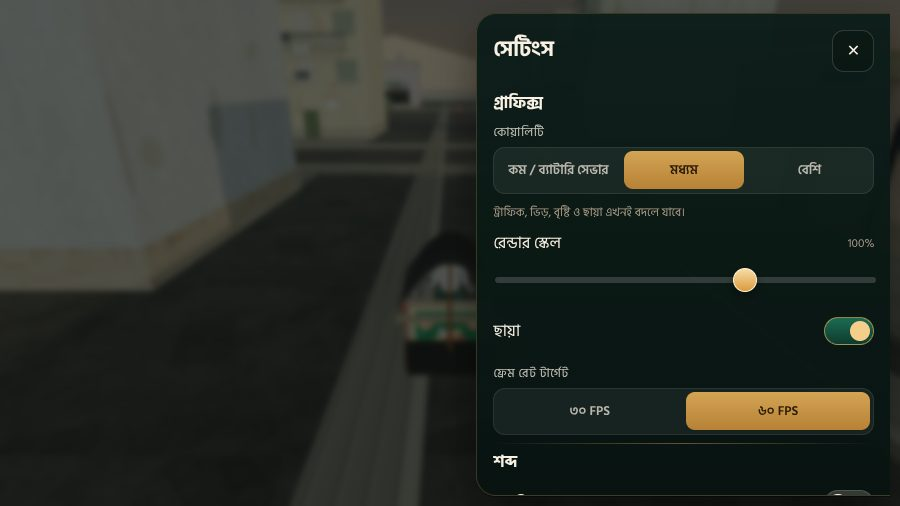
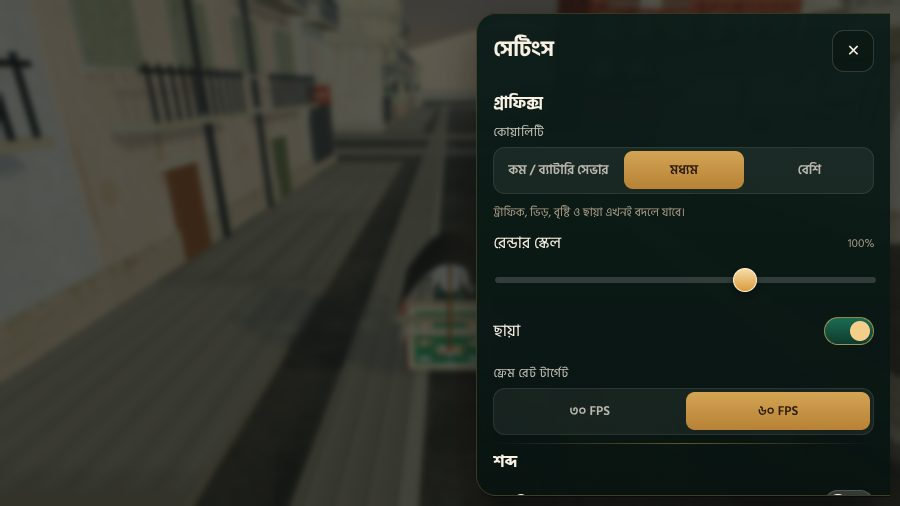
Perf + polish pass: fewer draw calls, better hero art, click-through tests
- Merge the hero rickshaw's static painted parts into one mesh per material
- Bake each traffic vehicle's wheels into a single mesh (no per-wheel draws)
- Measured draw calls: Balanced 389 -> 316 (197k tris), Low 180 (104k tris)
- Canopy/curtain art, lighter hood, mudguard arcs, driver arms, side panels
- Night readability: glow layer, stronger lamps, dimmed IBL, player fill light
- Wet-road material response, streak rain, brighter sunlit asphalt, sidewalk aprons
- UI: SVG icons everywhere, docked sheets, portrait layout fixes, result scrim
- New UI click-through suite (17 checks) that found and fixed garage navigation
- Idle job offer, pickup-distance rule, hints only when actionable
- README/TEST_REPORT updated with measured perf numbers

diff --git a/src/vehicle/rickshawModel.ts b/src/vehicle/rickshawModel.ts
@@ -12,6 +12,7 @@ import { createWheel } from '../world/geo';
 import { rickshawArtTexture, clothTexture, FONT_FAMILY } from '../world/textures';
 import type { CosmeticCategory, VehicleDef } from '../economy/catalog';
 import { damp, TAU } from '../core/mathx';
+import { mergeGeometries } from 'three/addons/utils/BufferGeometryUtils.js';
 
 export interface RickshawLook {
   palette: VehicleDef['palette'];
@@ -133,6 +134,7 @@ export class RickshawVisual {
   private artMat: THREE.MeshStandardMaterial;
   private canopyMat: THREE.MeshStandardMaterial;
   private tasselMat: THREE.MeshStandardMaterial;
+  private sideMat: THREE.MeshStandardMaterial;
   private flowerMeshes: THREE.Object3D[] = [];
   private artMesh: THREE.Mesh;
   private wheelSpin = 0;
@@ -151,14 +153,20 @@ export class RickshawVisual {
 
     this.bodyMat = mat(look.palette.body, 0.42, 0.22);
     this.trimMat = mat(look.palette.trim, 0.32, 0.72);
+    // Real rickshaw hoods are oilcloth in dark greens, reds or blacks, but they
+    // always carry a painted border. Lift the base tone so the shape reads at
+    // gameplay distance instead of becoming a black hole in the frame.
     this.canopyMat = new THREE.MeshStandardMaterial({
-      color: new THREE.Color(look.palette.canopy).lerp(new THREE.Color('#4a4038'), 0.35),
+      color: new THREE.Color(look.palette.canopy).lerp(new THREE.Color('#6d5a4a'), 0.62),
+      emissive: new THREE.Color('#241c16'),
+      emissiveIntensity: 0.55,
       map: clothTexture(),
-      roughness: 0.94,
-      metalness: 0.02,
+      roughness: 0.9,
+      metalness: 0.03,
       side: THREE.DoubleSide,
     });
     this.tasselMat = mat(look.tassel, 0.85, 0.02);
+    this.sideMat = mat(new THREE.Color(look.palette.body).multiplyScalar(1.15), 0.5, 0.2);
 
     // ---------------------------------------------------------- chassis
     const frameMat = mat('#2a2b2e', 0.45, 0.6);
@@ -340,7 +348,7 @@ export class RickshawVisual {
 
     // side panels with painted trim
     for (const side of [-1, 1]) {
-      const sidePanel = new THREE.Mesh(new THREE.BoxGeometry(0.02, 0.6, 0.9), this.bodyMat);
+      const sidePanel = new THREE.Mesh(new THREE.BoxGeometry(0.02, 0.6, 0.9), this.sideMat);
       sidePanel.position.set(side * 0.53, 0.62, -0.55);
       sidePanel.castShadow = true;
       this.body.add(sidePanel);
@@ -357,6 +365,11 @@ export class RickshawVisual {
     canopyMesh.castShadow = true;
     canopyMesh.receiveShadow = true;
     this.canopy.add(canopyMesh);
+    for (const side of [-1, 1]) {
+      const edge = new THREE.Mesh(new THREE.BoxGeometry(0.04, 0.05, 1.2), this.trimMat);
+      edge.position.set(side * 0.6, 0.78, 0);
+      this.canopy.add(edge);
+    }
     // painted valance along the canopy edge (bright band that separates the
     // hood from the street behind it)
     const valance = new THREE.Mesh(new THREE.BoxGeometry(1.3, 0.1, 0.02), this.trimMat);
@@ -371,10 +384,15 @@ export class RickshawVisual {
       this.canopy.add(bow);
     }
     // rear curtain with art
-    const curtain = new THREE.Mesh(new THREE.PlaneGeometry(1.06, 0.5), this.canopyMat);
-    curtain.position.set(0, 0.55, -0.62);
+    const curtain = new THREE.Mesh(new THREE.PlaneGeometry(1.04, 0.46), this.artMat);
+    curtain.position.set(0, 0.66, -0.618);
     curtain.rotation.y = Math.PI;
     this.canopy.add(curtain);
+    // rolled-up cloth bundle at the top of the curtain (as on a real hood)
+    const roll = new THREE.Mesh(new THREE.CylinderGeometry(0.05, 0.05, 1.08, 8), this.trimMat);
+    roll.rotation.z = Math.PI / 2;
+    roll.position.set(0, 0.92, -0.62);
+    this.canopy.add(roll);
 
     // tassels along the canopy edge
     for (let i = 0; i < 9; i++) {
@@ -501,6 +519,7 @@ export class RickshawVisual {
     reflector.position.set(0, 0.42, -1.02);
     this.body.add(reflector);
 
+    this.mergeStaticBody();
     this.applyLook(look);
     this.root.traverse((obj) => {
       if (obj instanceof THREE.Mesh) {
@@ -512,6 +531,71 @@ export class RickshawVisual {
 
   headlight!: THREE.SpotLight;
   bellMesh!: THREE.Mesh;
+
+  /**
+   * Collapse the ~40 individual painted parts of the chassis into one mesh per
+   * material. The hero vehicle is on screen every frame, so this is the single
+   * biggest draw-call saving in the game (each material is also doubled by the
+   * shadow pass). Animated parts (steering, wheels, crank, legs, canopy, tassels)
+   * are excluded and stay as separate objects.
+   */
+  private mergeStaticBody(): void {
+    const animated = new Set<THREE.Object3D>([
+      this.steering,
+      this.crank,
+      this.canopy,
+      ...this.wheels,
+      ...this.tassels,
+      ...this.legs.map((l) => l.thigh),
+      ...this.legs.map((l) => l.shin),
+      this.artMesh,
+      this.headlight,
+      this.headlight.target,
+    ]);
+    const byMaterial = new Map<THREE.MeshStandardMaterial, THREE.BufferGeometry[]>();
+    const victims: THREE.Object3D[] = [];
+    this.body.updateMatrixWorld(true);
+    for (const child of [...this.body.children]) {
+      if (!(child instanceof THREE.Mesh)) continue;
+      if (animated.has(child)) continue;
+      if (child instanceof THREE.InstancedMesh) continue;
+      if (animated.has(child.parent as THREE.Object3D)) continue;
+      const mat = child.material as THREE.MeshStandardMaterial;
+      if (!mat || Array.isArray(mat)) continue;
+      const geo = child.geometry.clone();
+      geo.applyMatrix4(child.matrix);
+      // keep attribute sets identical for merging
+      if (!geo.getAttribute('uv')) {
+        geo.setAttribute('uv', new THREE.BufferAttribute(new Float32Array(geo.getAttribute('position').count * 2), 2));
+      }
+      if (!geo.getAttribute('color')) {
+        const count = geo.getAttribute('position').count;
+        geo.setAttribute('color', new THREE.BufferAttribute(new Float32Array(count * 3).fill(1), 3));
+      }
+      for (const name of Object.keys(geo.attributes)) {
+        if (!['position', 'normal', 'uv', 'color'].includes(name)) geo.deleteAttribute(name);
+      }
+      let list = byMaterial.get(mat);
+      if (!list) {
+        list = [];
+        byMaterial.set(mat, list);
+      }
+      list.push(geo);
+      victims.push(child);
+    }
+    for (const child of victims) this.body.remove(child);
+    for (const [mat, geos] of byMaterial) {
+      if (geos.length === 0) continue;
+      const merged = geos.length === 1 ? geos[0] : mergeGeometries(geos, false);
+      if (!merged) continue;
+      if (geos.length > 1) for (const g of geos) g.dispose();
+      const mesh = new THREE.Mesh(merged, mat);
+      mesh.castShadow = true;
+      mesh.receiveShadow = true;
+      mesh.matrixAutoUpdate = false;
+      this.body.add(mesh);
+    }
+  }
 
   /** Change paint / art / tassels / flowers without rebuilding the rig. */
   applyLook(look: RickshawLook): void {

diff --git a/src/ai/vehicles.ts b/src/ai/vehicles.ts
@@ -6,8 +6,6 @@
 import * as THREE from 'three';
 import { mergeGeometries } from 'three/addons/utils/BufferGeometryUtils.js';
 
-const geoCache = new Map<string, THREE.BufferGeometry>();
-
 function boxGeo(w: number, h: number, d: number, color: string, x = 0, y = 0, z = 0): THREE.BufferGeometry {
   const g = new THREE.BoxGeometry(w, h, d);
   g.translate(x, y, z);
@@ -36,7 +34,7 @@ const glassMat = new THREE.MeshStandardMaterial({
   metalness: 0.6,
   color: 0xffffff,
 });
-const tireMat = new THREE.MeshStandardMaterial({ color: 0x2a2a2a, roughness: 0.95 });
+const tireMat = new THREE.MeshStandardMaterial({ color: 0x242424, roughness: 0.95 });
 
 export interface TrafficModel {
   group: THREE.Group;
@@ -46,28 +44,26 @@ export interface TrafficModel {
   height: number;
 }
 
-function wheel(radius = 0.34, width = 0.22): THREE.Mesh {
-  const key = `wheel:${radius}:${width}`;
-  let geo = geoCache.get(key);
-  if (!geo) {
-    geo = new THREE.CylinderGeometry(radius, radius, width, 12);
-    geo.rotateZ(Math.PI / 2);
-    geoCache.set(key, geo);
-  }
-  const mesh = new THREE.Mesh(geo, tireMat);
-  mesh.castShadow = true;
-  return mesh;
-}
-
+/**
+ * All wheels of one vehicle are baked into a single merged mesh. Draw calls
+ * matter far more than spinning traffic wheels (which are invisible at
+ * gameplay distance), and this cuts 4–6 calls per vehicle, doubled again by the
+ * shadow pass.
+ */
 function addWheels(group: THREE.Group, positions: [number, number, number][], radius: number, width: number): THREE.Object3D[] {
-  const out: THREE.Object3D[] = [];
+  const parts: THREE.BufferGeometry[] = [];
   for (const [x, y, z] of positions) {
-    const w = wheel(radius, width);
-    w.position.set(x, y, z);
-    group.add(w);
-    out.push(w);
+    const g = new THREE.CylinderGeometry(radius, radius, width, 12);
+    g.rotateZ(Math.PI / 2);
+    g.translate(x, y, z);
+    parts.push(g);
   }
-  return out;
+  const merged = merge(parts);
+  const mesh = new THREE.Mesh(merged, tireMat);
+  mesh.castShadow = false;
+  group.add(mesh);
+  // Return a single pseudo-rotation target so the caller keeps working.
+  return [mesh];
 }
 
 /** Big painted bus with fictional operator livery. */

diff --git a/src/ui/ui.ts b/src/ui/ui.ts
@@ -668,6 +668,22 @@ export class AppUI {
     onFree: () => void;
     onGarage: () => void;
   }): void {
+    // toasts would sit on top of the result card; clear them first
+    this.clearToasts();
+    this.renderResult(payload);
+  }
+
+  private renderResult(payload: {
+    fare: FareBreakdown;
+    offer: MissionOffer;
+    distance: number;
+    time: number;
+    daily: boolean;
+    unlock?: string | null;
+    onNext: () => void;
+    onFree: () => void;
+    onGarage: () => void;
+  }): void {
     clear(this.resultEl);
     const { fare, offer, distance, time } = payload;
     const good = fare.mood >= 65;
@@ -1426,6 +1442,10 @@ export class AppUI {
       el.style.transition = 'opacity .3s ease';
       window.setTimeout(() => el.remove(), 320);
     }, 2400);
+  }
+
+  clearToasts(): void {
+    while (this.toastStack.firstChild) this.toastStack.removeChild(this.toastStack.firstChild);
   }
 
   // ----------------------------------------------------------------- misc

diff --git a/src/ai/traffic.ts b/src/ai/traffic.ts
@@ -239,9 +239,8 @@ export class TrafficSystem {
       const pos = sampleRoute(v.route, v.s, { x: 0, z: 0, yaw: 0 });
       v.model.group.position.set(pos.x, 0, pos.z);
       v.model.group.rotation.y = pos.yaw;
-      for (const wheel of v.model.wheels) {
-        wheel.rotation.x -= (v.speed / v.wheelRadius) * dt;
-      }
+      // Wheels are baked into one mesh per vehicle (see vehicles.ts), so there
+      // is nothing to spin here; the brake light still communicates motion. 
       const brakeMat = v.brakeLight.material as THREE.MeshStandardMaterial;
       brakeMat.emissiveIntensity = v.speed < 0.4 ? 2.2 : accel < -1.2 ? 1.6 : 0.3;
       const nearPlayer = Math.hypot(pos.x - this.playerX, pos.z - this.playerZ) < 90;

diff --git a/src/styles.css b/src/styles.css
@@ -1146,6 +1146,17 @@ input[type='range']::-moz-range-thumb {
   align-items: center;
   justify-content: center;
 }
+.result-screen::before {
+  content: '';
+  position: absolute;
+  inset: 0;
+  pointer-events: none;
+  background: radial-gradient(80% 70% at 50% 45%, rgba(4, 10, 8, 0.55), rgba(4, 10, 8, 0.82));
+}
+.result-card {
+  position: relative;
+  z-index: 1;
+}
 .result-card {
   width: min(500px, 100%);
   padding: 1.1rem;

diff --git a/docs/TEST_REPORT.md b/docs/TEST_REPORT.md
@@ -28,6 +28,7 @@ Environment as measured in the Arena build sandbox on **2026-10-23** (Asia/Dhaka
 | 4b | `npm run test:ui` (`tests/e2e/ui-flow.mjs`) | **PASS — 17/17 checks** driving the game only through real DOM clicks |
 | 5 | `node tests/e2e/shoot.mjs menu,duty,garage,night,rain,rear` (landscape 960×540) | Screenshots reviewed visually at each iteration |
 | 6 | `PORTRAIT=1 node tests/e2e/shoot.mjs menu,duty,garage` (412×892) | Portrait layouts reviewed and fixed |
+| 7 | `node tests/e2e/perf.mjs` | Renderer counters captured (see §6) |
 
 `artifacts/e2e-results.json` holds the machine-readable result of the last E2E run (the folder is
 git-ignored; re-run to regenerate).
@@ -146,6 +147,28 @@ remembers where each sheet was opened from.
 | Night | Whole street flooded grey by the room light probe; no lamp pools near the player | Dimmed `scene.environmentIntensity` at night, added warm shop/window glow layer, more + stronger lamps with bulbs, night player fill light |
 | Rain | Rain invisible | Replaced point particles with short bright streaks (one draw call) and wet-road darkening/sheen |
 | Portrait (412×892) | Pedal button clipped off-screen; mood text rotated | Portrait-specific control sizing, tighter padding, mood pill fix |
+
+---
+
+## 6. Renderer counters (measured, not estimated)
+
+`tests/e2e/perf.mjs` boots the game, enters Free Ride and reads `renderer.info` after the scene
+has settled. Software rasteriser, so **frame time is not representative** — draw calls and
+triangle counts are, because they are properties of the scene, not the GPU.
+
+| Quality | Draw calls | Triangles | Geometries | Textures | Programs |
+|---|---|---|---|---|---|
+| Balanced | **316** | 197,174 | 195 | 18 | 20 |
+| Low | **180** | 104,178 | (same scene, fewer traffic/pedestrian instances and no shadows) | | |
+
+Before optimisation the Balanced count was **389**; merging each traffic vehicle's wheels into one
+mesh (−4 to −6 calls per vehicle, doubled by the shadow pass) and collapsing the hero rickshaw's
+static painted parts into one mesh per material brought it to 316. Both changes are visual no-ops
+at gameplay distance (verified with before/after screenshots).
+
+Budget guidance for a mid-range phone: keep total draw calls under ~350 at Balanced; the shadow
+pass roughly doubles the cost of casting meshes, which is why the traffic vehicles no longer cast
+wheel shadows and the `ধীরে চলুন` boards, posters and lamp glows never cast at all.
 
 ---
 

diff --git a/README.md b/README.md
@@ -207,8 +207,14 @@ docs/        test report, known issues, roadmap, Android packaging, screenshots
   particle budget, lamp count, fog density and environment reflections — immediately.
 * **Dynamic fallback**: if the measured frame rate stays below ~24 FPS for a sustained period,
   the game drops itself to Low once and tells the player.
-* **Merged geometry + instancing**: city shells are merged per material; pedestrians, poles and
-  wheels use instancing; only one shadow-casting directional light.
+* **Merged geometry + instancing**: city shells are merged per material; the hero rickshaw's
+  ~40 static parts collapse into one mesh per material; every traffic vehicle's wheels are baked
+  into a single mesh; pedestrians, poles and wheels use instancing; only one shadow-casting
+  directional light.
+* **Measured draw calls** (software-rendered test build, free ride, same camera):
+  **316 calls / 197 k triangles** on Balanced and **180 calls / 104 k triangles** on Low
+  (`npm run perf`, `tests/e2e/perf.mjs`). Merging traffic wheels and the rickshaw body took the
+  Balanced count from 389 → 316 without changing the look.
 * **Accessibility**: text size, HUD scale, reduce-effects (dampens shake and flashing),
   camera-shake toggle, subtitle toggle, haptics toggle, 30/60 FPS target, left-handed layout,
   analog/dead-zone/sensitivity controls, high-contrast objective markers.
